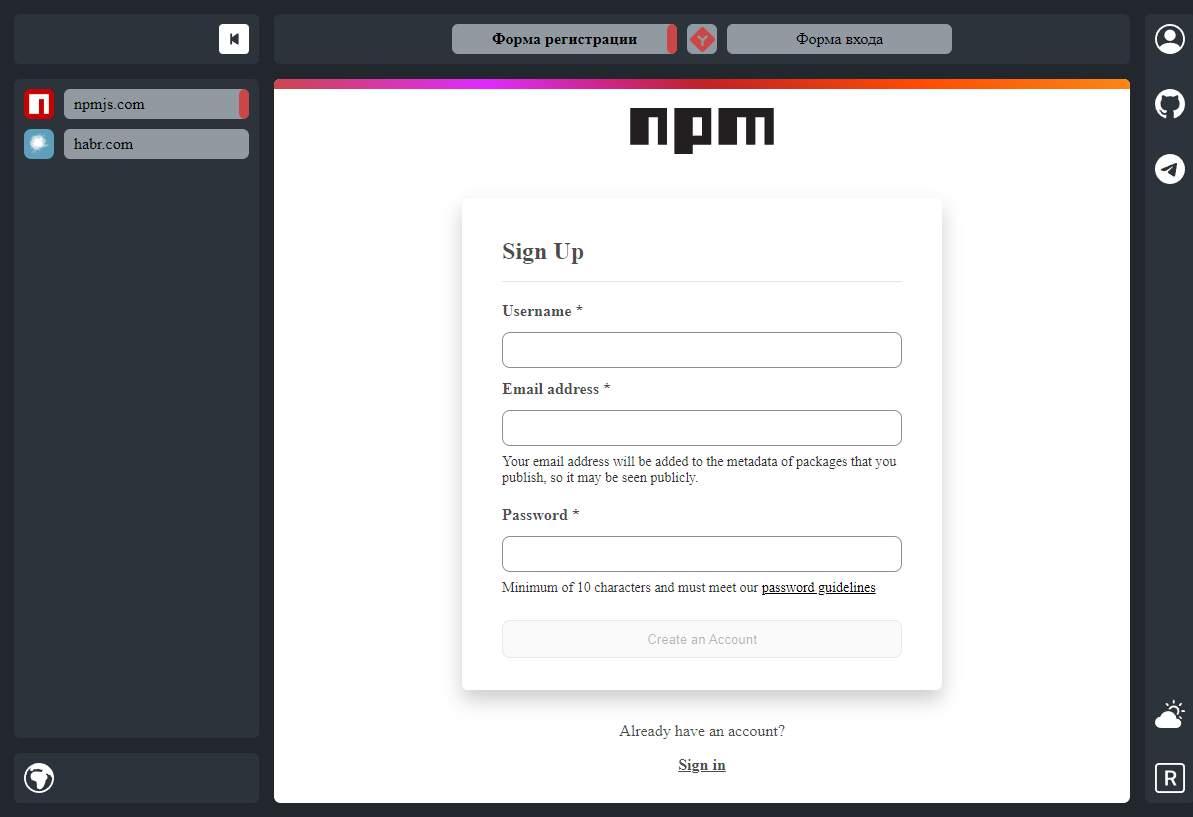
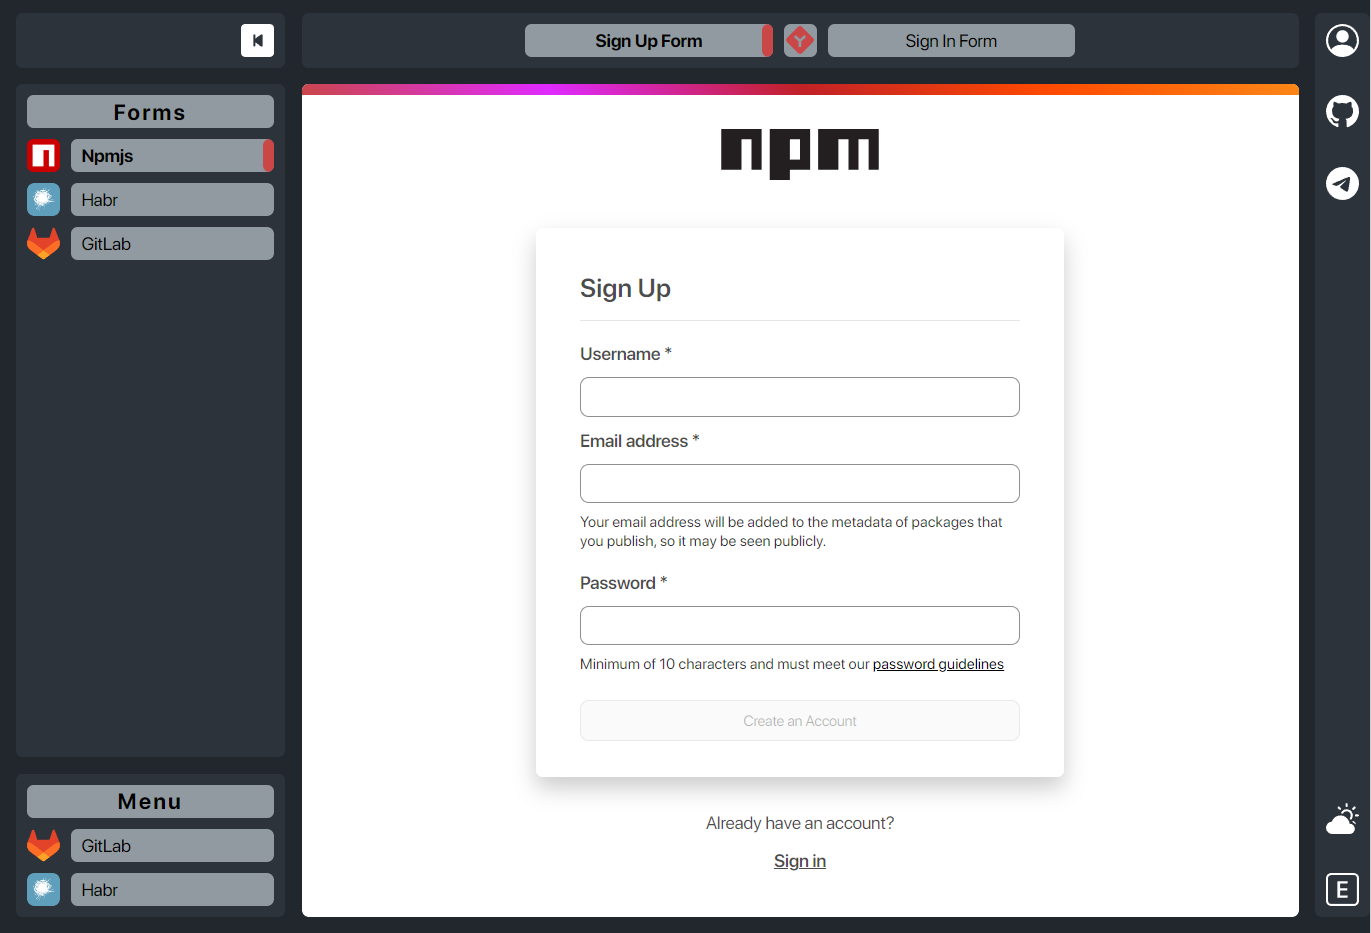
Обновление состояния проекта и текущих навыков.

diff --git a/src/BLL/profileReducer.ts b/src/BLL/profileReducer.ts
@@ -23,7 +23,7 @@ const initialState = {
   skills:{
     frontend:['HTML','JS','TS','CSS','React','Redux','Redux Saga','Redux Thunk','React Redux','React Router DOM',
     'React Hook Form','ClassNames','Reselect','Styled Components','Axios'],
-    backend:['Node JS','Express','GraphQL','MongoDB'],
+    backend:['Node JS','Express','GraphQL','MongoDB', 'SQL'],
     other:['Webpack','Phyton','jQuery','Git'],
   }
 }

diff --git a/README.md b/README.md
@@ -1,8 +1,8 @@
 ### Привет
-- Этот проект ведется мной с целью его прикрепления к портфолио.
-- На данный момент, он включает в себя реализацию нескольких форм пользовательского ввода.
-- Структура и оформление приложения являются импровизированными и могут подвергаться изменениям.
-- Важно, с целью разнообразия, одна и та-же задача, может быть реализована мной разными способами.
+- Этот проект ведется с целью его прикрепления к портфолио.
+- На данный момент, он включает в себя реализацию нескольких форм пользовательского ввода и блоков меню.
+- Структура и оформление приложения являются импровизированными.
+- C целью разнообразия, одна и та-же задача, может быть реализована разными способами.
 ***
 ![UI](./src/BLL/images/readme/Readme.png)
 ***
